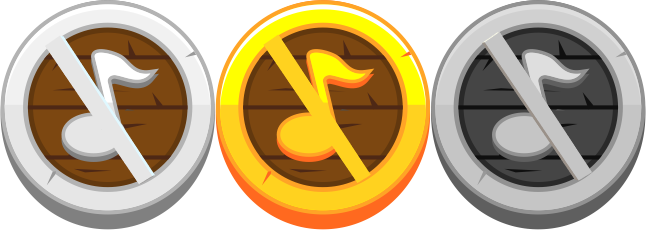
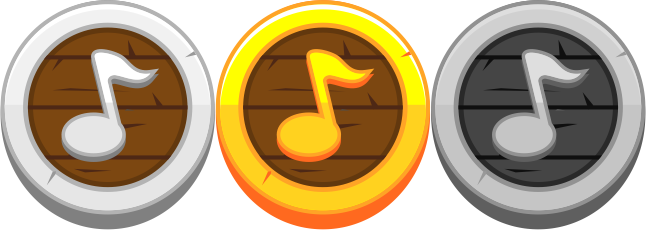
Added Sounds Option and Finished Most of Physics

diff --git a/Head Soccer/main.cpp b/Head Soccer/main.cpp
@@ -2,7 +2,7 @@
 #include <SFML/Graphics.hpp>
 #include <SFML/Audio.hpp>
 #include <string>
-
+#include <iostream>
 //Constants
 #define screenWidth 1000
 #define screenHeight 650
@@ -11,7 +11,7 @@
 /// Global Struct, contains stuff that are used in more than one scope
 struct Global
 {
-    //if Mouse LEft Butto Clicked inside the Game
+    //if Mouse Left Button Clicked inside the Game
     bool leftMouseBtn=0;
 
     //if Game is Paused
@@ -147,7 +147,7 @@ struct Object
             }
             else gravity.activate(sprite, velocity);
 
-            if(down && currentBottomPos < groundTop) velocity.y = 5.0f;
+            // if(down && currentBottomPos < groundTop) velocity.y = 5.0f;
             if(right && currentRightPos < screenWidth) velocity.x = 2.5f;
             if(left && currentLeftPos > 0) velocity.x = -2.5f;
             
@@ -166,18 +166,48 @@ struct Object
             sprite.move(velocity);
         }
 
-        bool stopCollision(sf::Sprite& body,sf::Vector2f& bodyV)
+        //Collisions
+        
+        bool ballCollision(sf::Sprite& body,sf::Vector2f& bodyV)
         {
-            //Collisions
-            if(sprite.getGlobalBounds().intersects(body.getGlobalBounds())) //Collision with body
+            if(sprite.getGlobalBounds().intersects(body.getGlobalBounds())) //Collision Detection
             {
-                bodyV = sf::Vector2f(velocity.x, velocity.y);
-                if(down)
-                bodyV += sf::Vector2f(20, 20);
-                velocity.x -= velocity.x;
-                velocity.y = -velocity.y;
+                if(body.getPosition().x < sprite.getPosition().x) //Ball is at Left of the Player
+                {
+                    body.setPosition(sprite.getPosition().x - (sprite.getGlobalBounds().width - 5), body.getPosition().y);
+                    
+                    if(velocity.x == -2.5f)
+                        bodyV.x = velocity.x * 3;
+                    else bodyV.x = -bodyV.x + bodyV.x * 0.8f;
+                }
+                else if (body.getPosition().x > sprite.getPosition().x) //Ball is at Right of the Player
+                {
+                    body.setPosition(sprite.getPosition().x + (sprite.getGlobalBounds().width - 5), body.getPosition().y);
+                    
+                    if(velocity.x == 2.5)
+                        bodyV.x = velocity.x * 3;
+                    else bodyV.x = -bodyV.x + bodyV.x * 0.8f;
+                }
+
+                if(body.getPosition().y < sprite.getPosition().y) //Ball is at above the Player
+                {                    
+                    if(velocity.y < 0)
+                        bodyV.y = velocity.y * 3;
+                    else bodyV.y = -bodyV.y + bodyV.y * 0.8f;
+                }
+                else if (body.getPosition().x > sprite.getPosition().x) //Ball is at bottom of the Player
+                {                    
+                    if(velocity.y > 0)
+                        bodyV.y = velocity.y * 3;
+                    else bodyV.x = -bodyV.x + bodyV.x * 0.8f;
+
+                    if(down)    //Kick Ball
+                        bodyV = {20, -27};
+                }
+
                 return true;
             }
+
             return false;
         }
         
@@ -235,7 +265,7 @@ struct Object
         sf::Sprite sprite;
 
         const float radius=25;
-
+        const float lostE = 0.25f;
         // Physics
         Gravity gravity;
         sf::Vector2f velocity;
@@ -252,8 +282,7 @@ struct Object
         }
 
         void move()
-        {
-            const float lostE = 0.25f;
+        {   
             //Screen Boundries
             if(sprite.getGlobalBounds().left <= 0) //Left Boundries
             {
@@ -271,13 +300,19 @@ struct Object
             sprite.move(velocity);
             sprite.rotate(velocity.x);
         }
+
+        void goalCollision(sf::Sprite& body)
+        {
+            sf::FloatRect goalTop = {body.getGlobalBounds().left, body.getGlobalBounds().top, body.getGlobalBounds().width, 20};
+            if(goalTop.intersects(sprite.getGlobalBounds()))
+                velocity.y = -velocity.y + velocity.y * lostE;
+        }
     };    
 };
 
 /// Button Struct, responsible for making and rendering all different buttons in the game
 struct Button
 {
-    
     /// Responsible for Rectangular Shaped Buttons (Added by Tawfik)
     struct Rectangular
     {
@@ -333,7 +368,8 @@ struct Button
                 if(!inside)
                 {
                     hoveredTexture();
-                    global.btnHover.play();
+                    if(global.soundEnabled)
+                        global.btnHover.play();
                     inside=1;
                 }
                 return true;    
@@ -352,7 +388,9 @@ struct Button
         {
             if( mouseHover() && global.leftMouseBtn)
             {
-                global.btnClick.play();
+                if(global.soundEnabled)
+                    global.btnClick.play();
+                global.leftMouseBtn=0;
                 return true;
             }
             else return false;
@@ -413,10 +451,11 @@ struct Button
                 if(!inside)
                 {
                     hoveredTexture();
-                    global.btnHover.play();
+                    if(global.soundEnabled)
+                        global.btnHover.play();
                     inside=1;
                 }
-                return true;    
+                return true;
             }
             else
             {
@@ -431,7 +470,9 @@ struct Button
         {
             if(mouseHover() && global.leftMouseBtn)
             {
-                global.btnClick.play();
+                if(global.soundEnabled)
+                    global.btnClick.play();
+                global.leftMouseBtn=0;
                 return true;
             }
         }
@@ -498,11 +539,12 @@ struct Match
         void SingleLogic()
         {
             // Collisions
-            if(player1.stopCollision(ball.sprite,ball.velocity) || player2.stopCollision(ball.sprite,ball.velocity))
+            if(player1.ballCollision(ball.sprite,ball.velocity) && global.soundEnabled)// || player2.stopCollision(ball.sprite,ball.velocity))
                 kickBallSound.play();
 
-            // player1.stopCollision(player2.sprite,player2.velocity);
-
+            ball.goalCollision(goal1);
+            ball.goalCollision(goal2);
+            
             // Movement Control
             player1.move();
             player2.move();
@@ -520,6 +562,10 @@ struct Match
             player1.sprite.setPosition(120,550);
             player2.sprite.setPosition(880, 550);
             ball.sprite.setPosition(500, 100);
+
+            player1.velocity = {};
+            player2.velocity = {};
+            ball.velocity = {};
         }
 
         // Rendering
@@ -575,7 +621,7 @@ struct Menu
         void Logic(char& session)
         {   
             //Play Music
-            if(!isPlaying)
+            if(!isPlaying && global.soundEnabled)
             {
                 BGMusic.play();
                 isPlaying=1;
@@ -638,7 +684,7 @@ struct Menu
         
         void Logic(char& session)
         {
-            if(!isPlaying)
+            if(!isPlaying && global.soundEnabled)
             {
                 BGMusic.play();
                 isPlaying=1;
@@ -716,17 +762,6 @@ struct Menu
         static const int n = 6;
         Button::Round btn[n];
         
-        char btnsession[n] = { 'r','s','m','u','i','h' };
-        
-        /*
-            r(return) Cancel
-            s(single) Restart
-            m(Mute) Mute Sounds
-            u(Unmute) Unmute Sounds
-            i(instructions)
-            h(Home) Main Menu
-        */
-        
         //Background for Buttons
         sf::Texture bgT;
         sf::Sprite bg;
@@ -755,18 +790,19 @@ struct Menu
             // Buttons
             
             // 1-resume 2-restart 3-mute 4-unmute 5-instructions 6-main menu
-            sf::String s[] = { "Cancel","Restart","Mute", "Unmute","Inst","Menu" };
+            sf::String s[] = { "Cancel","Restart","Mute", "Unmute","Inst","Home" };
             for (int i = 0; i < n; i++)
             {
                 btn[i].create(s[i]);
             }
 
-            btn[0].sprite.setPosition(bgT.getSize().x + bgT.getSize().x / 4 - 20, bgT.getSize().y - bgT.getSize().y / 4 + 20);
-            btn[1].sprite.setPosition(screenWidth / 2 - 160 + 70, screenHeight / 2 - 70);
-            btn[2].sprite.setPosition(screenWidth / 2 + 160 - 70, screenHeight / 2 - 70);
-            btn[3].sprite.setPosition(screenWidth / 2 + 160 - 70, screenHeight / 2 - 70);
-            btn[4].sprite.setPosition(screenWidth / 2 - 160 + 70, screenHeight / 2 + 70);
-            btn[5].sprite.setPosition(screenWidth / 2 + 160 - 70, screenHeight / 2 + 70);
+            btn[0].sprite.setPosition(bgT.getSize().x + bgT.getSize().x / 4 - 20, bgT.getSize().y - bgT.getSize().y / 4 + 20); //Cancel Button
+            btn[1].sprite.setPosition(screenWidth / 2 - 160 + 70, screenHeight / 2 - 70); //Restart Button
+            btn[2].sprite.setPosition(screenWidth / 2 + 160 - 70, screenHeight / 2 - 70); //Mute Button
+            btn[3].sprite.setPosition(screenWidth / 2 + 160 - 70, screenHeight / 2 - 70); //Unmute Button
+            btn[3].sprite.setScale(0,0);
+            btn[4].sprite.setPosition(screenWidth / 2 - 160 + 70, screenHeight / 2 + 70); //Instructions Button
+            btn[5].sprite.setPosition(screenWidth / 2 + 160 - 70, screenHeight / 2 + 70); //Home Button
 
             //Text
 
@@ -784,41 +820,46 @@ struct Menu
             {
                 if (btn[i].mouseLeftClicked())
                 {
-                    switch (btnsession[i])
+                    switch (i)
                     {
-                    case 's':
+                    case 1: //Restart
                         Game.restart();
-                    case 'r':
+                    case 0: //Cancel
                         global.GamePaused=0;
                         session = 's';
                         break;
-                    case 'm':
+                    case 2: //Mute
                         global.soundEnabled=0;
+                        btn[2].sprite.setScale(0,0);
+                        btn[3].sprite.setScale(0.4f,0.4f);
                         break;
-                    case 'u':
+                    case 3: //Unmute
                         global.soundEnabled=1;
+                        btn[2].sprite.setScale(0.4f,0.4f);
+                        btn[3].sprite.setScale(0,0);
                         break;
-                    case 'i':
+                    case 4: //Instructions
                         global.gotoPauseMenu=1;
                         global.GamePaused=0;
                         session='i';
                         break;
-                    case 'h':
+                    case 5: //Home
                         global.GamePaused=0;
                         session='h';
                         break;
                     }
-                
                 }
             }
         }
 
         void render(sf::RenderWindow& window)
         {
+            //Draw Background, Banner, Title
             window.draw(Blur);
             window.draw(bg);
             window.draw(paused);
 
+            //Draw Buttons
             for (int i = 0; i < n; i++)
             {
                 window.draw(btn[i].sprite);
